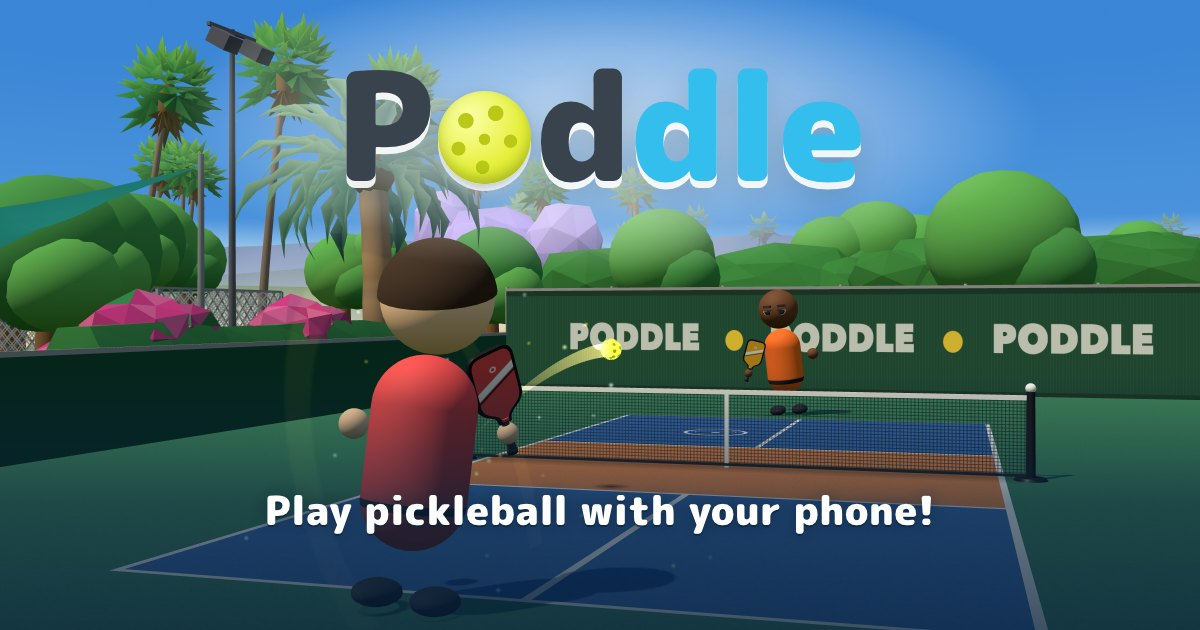
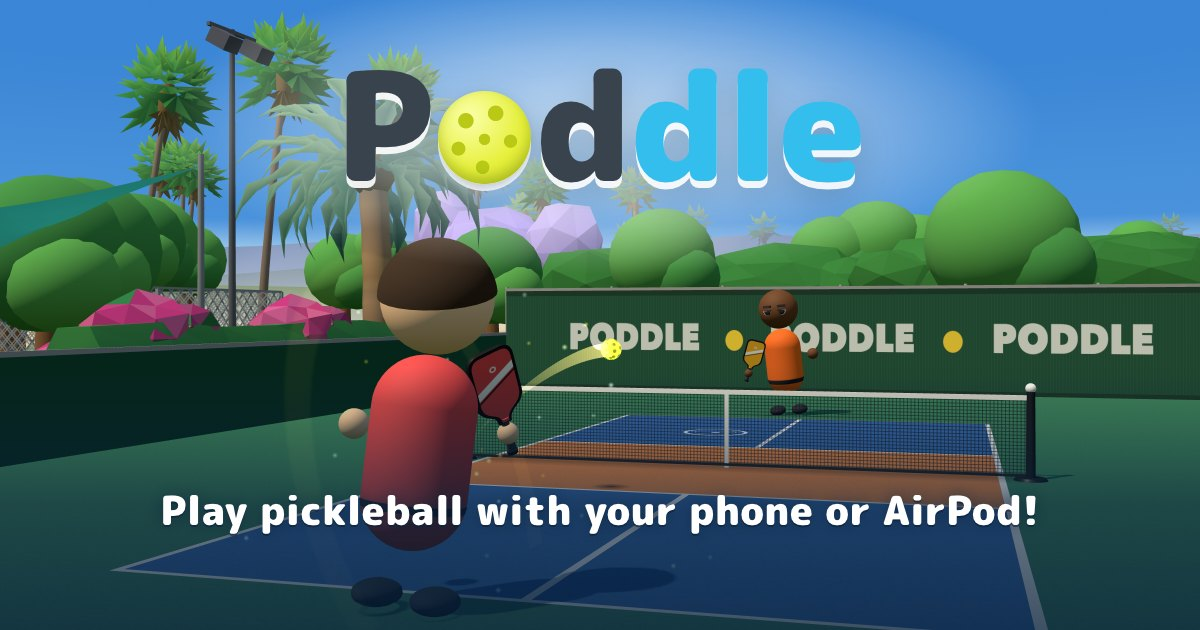
Spectator emotes: no cooldown (60 ms flood floor only); share card says phone or AirPod

Changed region(s): [[0.1233, 0.7841, 0.8633, 0.8444]]

diff --git a/web/ui.js b/web/ui.js
@@ -340,21 +340,15 @@ export function setView(name, who = '') {
 on2('views', 'click', e => { const c = e.target.closest('.view-chip'); if (c && onViewFn) onViewFn(c.dataset.view); });
 on2('views', 'keydown', e => { const d = { ArrowRight: 1, ArrowLeft: -1 }[e.key]; if (!d) return; const cs = [...$('views').children], i = cs.indexOf(document.activeElement); if (i < 0) return; e.preventDefault(); cs[(i + d + 4) % 4].focus(); });
 // ---------- spectator emotes: a row of Apple emoji bottom-right (web/emoji/, from iamcal/emoji-data img-apple-160), happy to sad.
-// A pick goes to the server; it comes back to everyone in the court (the sender too) and pops in from the right edge. One per 5 s.
+// A pick goes to the server; it comes back to everyone in the court (the sender too) and pops in from the right edge. No cooldown: tap as fast as you like.
 export const EMOTES = [['1f923', '🤣', 'Rolling on the floor laughing'], ['1f975', '🥵', 'Hot'], ['1f92f', '🤯', 'Mind blown'],
   ['1f621', '😡', 'Angry'], ['1f480', '💀', 'Skull'], ['1f940', '🥀', 'Wilted flower'], ['1f622', '😢', 'Crying']];     // the index is the wire value (server EMOTES)
-export const EMOTE_WAIT = 5000;
-let onEmoteFn = null, emoteCoolT = 0;
+let onEmoteFn = null;
 export function onEmote(fn) { onEmoteFn = fn; }
 const emoteImg = i => { const img = document.createElement('img'); img.src = `emoji/${EMOTES[i][0]}.png`; img.alt = EMOTES[i][1]; img.draggable = false; img.decoding = 'async'; return img; };
-function emoteCool(on) {
-  const box = $('emotes'); if (!box) return; clearTimeout(emoteCoolT);
-  if (on) { restart(box, 'is-cool'); emoteCoolT = setTimeout(() => emoteCool(false), EMOTE_WAIT); } else box.classList.remove('is-cool');
-  for (const b of box.querySelectorAll('button')) b.disabled = on;
-}
 { const box = $('emotes');
   if (box) EMOTES.forEach((em, i) => { const b = document.createElement('button'); b.className = 'emote-btn'; b.dataset.e = String(i); b.setAttribute('aria-label', em[2]); b.title = em[2]; b.append(emoteImg(i)); box.append(b); });
-  on2('emotes', 'click', e => { const b = e.target.closest('.emote-btn'); if (!b || b.disabled || !onEmoteFn) return; emoteCool(true); onEmoteFn(+b.dataset.e); }); }
+  on2('emotes', 'click', e => { const b = e.target.closest('.emote-btn'); if (!b || !onEmoteFn) return; onEmoteFn(+b.dataset.e); }); }
 // one reaction arriving: floats up from the bottom-right corner like a live-stream reaction, swaying, and fades. Eight on screen at most
 export function emote(i, name) {
   const layer = $('emote-layer'); if (!layer || !EMOTES[i]) return;
@@ -364,7 +358,7 @@ export function emote(i, name) {
   body.append(emoteImg(i)); if (name) { const n = document.createElement('span'); n.textContent = name; body.append(n); }      // names: textContent only
   el.append(body); el.addEventListener('animationend', e => { if (e.target === el) el.remove(); }); setTimeout(() => el.remove(), dur * 1000 + 500); layer.append(el);
 }
-export function emotesOff() { const layer = $('emote-layer'); if (layer) layer.replaceChildren(); emoteCool(false); }     // out of the room: nothing carries over
+export function emotesOff() { const layer = $('emote-layer'); if (layer) layer.replaceChildren(); }     // out of the room: nothing carries over
 
 on2('btn-rematch', 'click', () => { if (voted) return; lockVote(true); if (onVote) onVote(true); });
 on2('btn-leave', 'click', () => { if (voted && !votedYes) return; lockVote(false); if (onVote) onVote(false); });      // also after Rematch: a change of mind

diff --git a/web/how-to-play.html b/web/how-to-play.html
@@ -18,18 +18,18 @@
 <meta property="og:description" content="Scan a code and your phone is the paddle. Any computer, any phone, nothing to install. Play friends online or Matt the bot.">
 <meta property="og:url" content="https://poddleball.com/how-to-play.html">
 <meta property="og:locale" content="en_US">
-<meta property="og:image" content="https://poddleball.com/og.jpg?v=4">
-<meta property="og:image:secure_url" content="https://poddleball.com/og.jpg?v=4">
+<meta property="og:image" content="https://poddleball.com/og.jpg?v=5">
+<meta property="og:image:secure_url" content="https://poddleball.com/og.jpg?v=5">
 <meta property="og:image:type" content="image/jpeg">
 <meta property="og:image:width" content="1200">
 <meta property="og:image:height" content="630">
-<meta property="og:image:alt" content="Poddle logo over a sunny pickleball court. A player in red hits the ball over the net to Matt in orange. Below them, the words: Play pickleball with your phone!">
+<meta property="og:image:alt" content="Poddle logo over a sunny pickleball court. A player in red hits the ball over the net to Matt in orange. Below them, the words: Play pickleball with your phone or AirPod!">
 
 <meta name="twitter:card" content="summary_large_image">
 <meta name="twitter:title" content="How to play Poddle">
 <meta name="twitter:description" content="Scan a code and your phone is the paddle. Any computer, any phone, nothing to install. Play friends online or Matt the bot.">
-<meta name="twitter:image" content="https://poddleball.com/og.jpg?v=4">
-<meta name="twitter:image:alt" content="Poddle logo over a sunny pickleball court. A player in red hits the ball over the net to Matt in orange. Below them, the words: Play pickleball with your phone!">
+<meta name="twitter:image" content="https://poddleball.com/og.jpg?v=5">
+<meta name="twitter:image:alt" content="Poddle logo over a sunny pickleball court. A player in red hits the ball over the net to Matt in orange. Below them, the words: Play pickleball with your phone or AirPod!">
 
 <link rel="icon" href="/favicon.svg" type="image/svg+xml">
 <link rel="icon" href="/favicon-32.png" type="image/png" sizes="32x32">
@@ -129,7 +129,7 @@
 
 <main class="wrap">
   <section class="intro" aria-labelledby="title">
-    <img class="hero" src="/og.jpg?v=4" width="1200" height="630" alt="Poddle logo over a sunny pickleball court. A player in red hits the ball over the net to Matt in orange. Below them, the words: Play pickleball with your phone!">
+    <img class="hero" src="/og.jpg?v=5" width="1200" height="630" alt="Poddle logo over a sunny pickleball court. A player in red hits the ball over the net to Matt in orange. Below them, the words: Play pickleball with your phone or AirPod!">
     <h1 id="title">How to play Poddle</h1>
     <p class="lead">Poddle is pickleball in your browser. Your phone is the paddle. Swing it and the paddle on screen swings with you. Play a friend online, play Matt the bot, or watch a match.</p>
     <p class="note"><strong>Nothing to install.</strong> Open Poddle on a computer, scan the code with your phone, and swing. It works on Windows, Mac, Chromebook and Linux, with an iPhone or an Android phone. Have AirPods and a Mac? One AirPod can be the paddle instead.</p>

diff --git a/web/ui.css b/web/ui.css
@@ -657,17 +657,13 @@ body[data-role="spectator"] .keyhints,body[data-role="spectator"] #podwrap,body[
 body[data-role="spectator"][data-view="split"] #split-line{display:block}
 @media (max-aspect-ratio: 1/1){ #split-line{left:0;right:0;top:50%;bottom:auto;width:auto;height:2px;margin:-1px 0 0} }       /* taller than wide: scene.js stacks the two views (same test, w <= h), so the line lies across */
 body[data-role="spectator"] #ping-pill{display:none}                           /* the ping is shown while seated only (docs/NEXT.md 14g) */
-/* emotes: spectators get a row of Apple emoji bottom-right (where a player's key hints sit); a pick waits 5 s, the bar underneath runs it down.
+/* emotes: spectators get a row of Apple emoji bottom-right (where a player's key hints sit); no cooldown.
    Everyone in the court sees each one pop in from the right edge, drift up and fade, with the sender's name. */
 .emotes{display:none;position:fixed;right:var(--edge);bottom:var(--edge);z-index:var(--z-hud);gap:.125rem;padding:.25rem;border-radius:var(--r-pill);background:rgba(255,255,255,.9);border:.09375rem solid #fff;box-shadow:var(--sh-hud);transition:opacity 500ms var(--ease-soft), transform 500ms var(--ease-out)}
 body[data-role="spectator"] .emotes{display:flex}
 .emote-btn{display:grid;place-items:center;width:2.75rem;height:2.75rem;padding:0;border:0;border-radius:50%;background:none;cursor:pointer;outline:0;-webkit-tap-highlight-color:transparent;transition:transform var(--d-fast) var(--ease-bounce), opacity var(--d-fast)}
 .emote-btn img{width:2.125rem;height:2.125rem;pointer-events:none;user-select:none}
 .emote-btn:hover{transform:scale(1.18);background:var(--sky-2)} .emote-btn:active{transform:scale(.9)} .emote-btn:focus-visible{box-shadow:var(--glow)}
-.emote-btn:disabled{cursor:default;opacity:.4;transform:none;background:none}
-.emotes::after{content:"";position:absolute;left:1.25rem;right:1.25rem;bottom:.1875rem;height:.1875rem;border-radius:var(--r-pill);background:var(--line);transform-origin:left;transform:scaleX(0)}
-.emotes.is-cool::after{animation:emote-cool 5s linear forwards}
-@keyframes emote-cool{from{transform:scaleX(1)} to{transform:scaleX(0)}}
 body.has-toast .emotes{opacity:0;transform:translateY(.5rem);pointer-events:none;transition-duration:140ms}
 .emote-layer{position:fixed;inset:0;z-index:var(--z-hud);pointer-events:none;overflow:hidden}
 /* a live-stream reaction: born just above the emote row in the bottom-right corner, it swells in, then floats up about half the

diff --git a/web/index.html b/web/index.html
@@ -17,18 +17,18 @@
 <meta property="og:description" content="Swing your phone like a paddle. Play friends online or Matt the bot. Any computer, any phone, free.">
 <meta property="og:url" content="https://poddleball.com/">
 <meta property="og:locale" content="en_US">
-<meta property="og:image" content="https://poddleball.com/og.jpg?v=4">
-<meta property="og:image:secure_url" content="https://poddleball.com/og.jpg?v=4">
+<meta property="og:image" content="https://poddleball.com/og.jpg?v=5">
+<meta property="og:image:secure_url" content="https://poddleball.com/og.jpg?v=5">
 <meta property="og:image:type" content="image/jpeg">
 <meta property="og:image:width" content="1200">
 <meta property="og:image:height" content="630">
-<meta property="og:image:alt" content="Poddle logo over a sunny pickleball court. A player in red hits the ball over the net to Matt in orange. Below them, the words: Play pickleball with your phone!">
+<meta property="og:image:alt" content="Poddle logo over a sunny pickleball court. A player in red hits the ball over the net to Matt in orange. Below them, the words: Play pickleball with your phone or AirPod!">
 
 <meta name="twitter:card" content="summary_large_image">
 <meta name="twitter:title" content="Poddle: Pickleball You Play With Your Phone">
 <meta name="twitter:description" content="Swing your phone like a paddle. Play friends online or Matt the bot. Any computer, any phone, free.">
-<meta name="twitter:image" content="https://poddleball.com/og.jpg?v=4">
-<meta name="twitter:image:alt" content="Poddle logo over a sunny pickleball court. A player in red hits the ball over the net to Matt in orange. Below them, the words: Play pickleball with your phone!">
+<meta name="twitter:image" content="https://poddleball.com/og.jpg?v=5">
+<meta name="twitter:image:alt" content="Poddle logo over a sunny pickleball court. A player in red hits the ball over the net to Matt in orange. Below them, the words: Play pickleball with your phone or AirPod!">
 
 <link rel="icon" href="favicon.svg" type="image/svg+xml">
 <link rel="icon" href="favicon-32.png" type="image/png" sizes="32x32">

diff --git a/server/game.js b/server/game.js
@@ -125,7 +125,7 @@ const ROOM_TTL = (process.env.ROOM_TTL != null ? +process.env.ROOM_TTL : 30) * 1
 const ROOM_CAP = +process.env.ROOM_CAP || 40;                  // rooms at once: one small machine hosts them all (tests lower it)
 const CODE_CHARS = 'ABCDEFGHJKMNPQRSTUVWXYZ23456789';          // no I, L, O, 0, 1: a code gets read out across a room
 const SPEC_CAP = 8;                                            // spectators per room (docs/SPECTATE.md)
-const EMOTES = 7, EMOTE_GAP = 4800;                             // spectator emotes: an index into web/ui.js EMOTES, one per socket per 5 s (the client waits 5000; 200 ms of slack for the wire)
+const EMOTES = 7, EMOTE_GAP = 60;                               // spectator emotes: an index into web/ui.js EMOTES. No cooldown a person can feel (NOTES 46); 60 ms per socket only stops a script flooding the court
 const ADDR_ROOMS = +process.env.ADDR_ROOMS || 4;               // rooms one address may have made and still standing: 40 idle sockets from one machine took every court (busy beyond that)
 const MSG_DROP = 200 * SCALE, MSG_KILL = 1000 * SCALE;         // messages a second from one socket: a client sends about 25. Past the first the rest are dropped unread, past the second the socket goes (one flooding socket held every court at 8-12 packets a second)
 const BUF_MAX = 256 * 1024;                                    // bytes queued on a socket that has stopped reading: it is dead weight, and 8 of them took the process to 1.6 GB on a 256 MB machine

diff --git a/test/og-card.html b/test/og-card.html
@@ -33,7 +33,7 @@ body{position:relative;font-family:"Poddle Rounded",sans-serif;-webkit-font-smoo
 <img id="scene" src="ui-shots/seo/og-scene.png" alt="">
 <div id="haze"></div>
 <div class="logo"><div class="logo-mark" aria-label="Poddle"><span class="lg-a">P</span><span class="logo-ball"></span><span class="lg-a">d</span><span class="lg-b">dle</span></div></div>
-<p class="tag">Play pickleball with your phone!</p>
+<p class="tag">Play pickleball with your phone or AirPod!</p>
 <script type="module">
   try { await Promise.all([document.fonts.load('900 150px "Poddle Rounded"'), document.fonts.load('900 40px "Poddle Rounded"'), document.getElementById('scene').decode()]);
     await document.fonts.ready; document.title = 'ready'; } catch (e) { document.title = 'error ' + e; }

diff --git a/NOTES.md b/NOTES.md
@@ -589,3 +589,11 @@ Build log. What we tried, what broke, and how each problem was solved.
 - The share image's line is now "Play pickleball with your phone!" (og.jpg regenerated, ?v=4). The copied invites say
   "on any computer" instead of "or an AirPod". The non-https fallback no longer says "Poddle plays on a Mac".
 - `test/seo.test.mjs` now checks for the phone (and no AirPod in the titles) where it used to require AirPod.
+
+## 46. Spectator emotes have no cooldown; the share card says phone or AirPod
+- "For the emotes as spectator, remove the cool down." The 5 s wait, the disabled buttons and the bar that ran it down are
+  gone: tap as fast as you like. The server keeps only a 60 ms per-socket floor (EMOTE_GAP), faster than anyone taps, so a
+  script cannot flood a court; the pops on screen were already capped at eight. `test/emote.test.mjs` checks a second emote
+  a moment later arrives and a burst of 30 at once is dropped.
+- "For the share image you can make it say play pickleball with your phone or AirPod." og.jpg regenerated with
+  "Play pickleball with your phone or AirPod!" (alt text to match, ?v=5).
